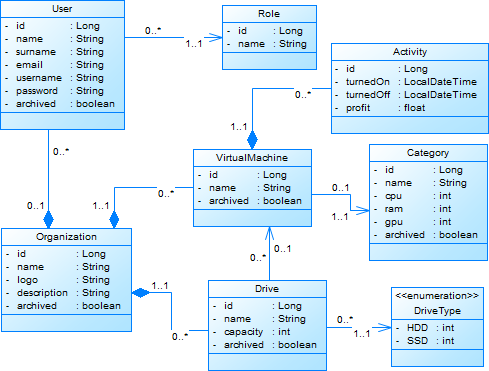
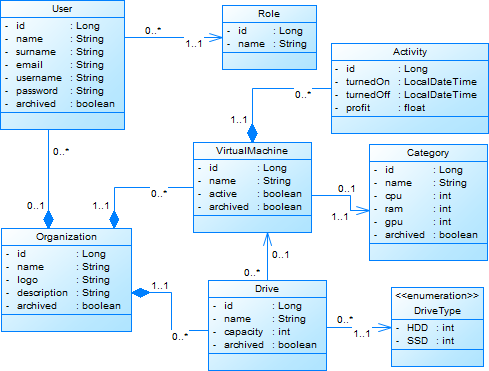
Added active attribute to virtual machine

Changed region(s): [[0.3988, 0.2965, 0.6442, 0.7412], [0.6442, 0.4744, 0.7362, 0.5337], [0.3067, 0.504, 0.3681, 0.5337]]

diff --git a/cloud-api/cloud/src/main/java/com/demo/cloud/model/VirtualMachine.java b/cloud-api/cloud/src/main/java/com/demo/cloud/model/VirtualMachine.java
@@ -24,6 +24,9 @@ public class VirtualMachine {
     private String name;
 
     @Column(nullable = false)
+    private boolean active;
+
+    @Column(nullable = false)
     private boolean archived;
 
     @ManyToOne
@@ -34,13 +37,14 @@ public class VirtualMachine {
 
     public VirtualMachine() { }
 
-    public VirtualMachine(String name, Organization organization, Category category, boolean archived) {
-        this(null, name, archived, organization, category);
+    public VirtualMachine(String name, boolean active, boolean archived, Organization organization, Category category) {
+        this(null, name, active, archived, organization, category);
     }
 
-    public VirtualMachine(Long id, String name, boolean archived, Organization organization, Category category) {
+    public VirtualMachine(Long id, String name, boolean active, boolean archived, Organization organization, Category category) {
         this.id = id;
         this.name = Strings.requireNonBlank(name, "Name must not be blank.");
+        this.active = active;
         this.archived = archived;
         this.organization = Objects.requireNonNull(organization, "Organization must not be null.");
         this.category = Objects.requireNonNull(category, "Category must not be null.");
@@ -58,24 +62,16 @@ public class VirtualMachine {
         return Objects.hash(id, name);
     }
 
-    public int getCpu() {
-        return category.getCpu();
-    }
-
-    public int getRam() {
-        return category.getRam();
-    }
-
-    public int getGpu() {
-        return category.getGpu();
-    }
-
     public Long getId() {
         return id;
     }
 
     public String getName() {
         return name;
+    }
+
+    public boolean isActive() {
+        return active;
     }
 
     public boolean isArchived() {
@@ -88,5 +84,17 @@ public class VirtualMachine {
 
     public Category getCategory() {
         return category;
+    }
+
+    public int getCpu() {
+        return category.getCpu();
+    }
+
+    public int getRam() {
+        return category.getRam();
+    }
+
+    public int getGpu() {
+        return category.getGpu();
     }
 }

diff --git a/cloud-api/cloud/src/main/java/com/demo/cloud/service/impl/VirtualMachineServiceImpl.java b/cloud-api/cloud/src/main/java/com/demo/cloud/service/impl/VirtualMachineServiceImpl.java
@@ -59,9 +59,10 @@ public class VirtualMachineServiceImpl implements VirtualMachineService {
 
         VirtualMachine toAdd = new VirtualMachine(
                 name,
+                false,
+                false,
                 org,
-                cat,
-                false
+                cat
         );
         return repository.save(toAdd);
     }
@@ -95,6 +96,9 @@ public class VirtualMachineServiceImpl implements VirtualMachineService {
     @Override
     public VirtualMachine update(Long id, String name, Long categoryId) {
         VirtualMachine existing = getById(id);
+
+        // TODO: Prevent update if machine is active
+
         if (!existing.getName().equals(name)) {
             validateName(name);
         }
@@ -103,6 +107,7 @@ public class VirtualMachineServiceImpl implements VirtualMachineService {
         VirtualMachine updated = new VirtualMachine(
                 existing.getId(),
                 name,
+                existing.isActive(),
                 false,
                 existing.getOrganization(),
                 cat

diff --git a/cloud-api/cloud/src/main/java/com/demo/cloud/mapper/VirtualMachineMapper.java b/cloud-api/cloud/src/main/java/com/demo/cloud/mapper/VirtualMachineMapper.java
@@ -1,6 +1,6 @@
 package com.demo.cloud.mapper;
 
-import com.demo.cloud.dto.machines.MachineViewDto;
+import com.demo.cloud.dto.machine.MachineViewDto;
 import com.demo.cloud.model.VirtualMachine;
 import org.springframework.stereotype.Component;
 
@@ -11,6 +11,7 @@ public class VirtualMachineMapper extends PageMapper<VirtualMachine, MachineView
         return new MachineViewDto(
                 machine.getId(),
                 machine.getName(),
+                machine.isActive(),
                 machine.getOrganization().getName(),
                 machine.getCategory().getName(),
                 machine.getCategory().getCpu(),

diff --git a/cloud-api/cloud/src/main/java/com/demo/cloud/controller/VirtualMachineController.java b/cloud-api/cloud/src/main/java/com/demo/cloud/controller/VirtualMachineController.java
@@ -2,9 +2,9 @@ package com.demo.cloud.controller;
 
 
 import com.demo.cloud.core.PaginatedResponse;
-import com.demo.cloud.dto.machines.AddMachineDto;
-import com.demo.cloud.dto.machines.MachineViewDto;
-import com.demo.cloud.dto.organization.UpdateMachineDto;
+import com.demo.cloud.dto.machine.AddMachineDto;
+import com.demo.cloud.dto.machine.MachineViewDto;
+import com.demo.cloud.dto.machine.UpdateMachineDto;
 import com.demo.cloud.filterParams.MachineFilter;
 import com.demo.cloud.mapper.VirtualMachineMapper;
 import com.demo.cloud.model.VirtualMachine;

diff --git a/cloud-api/cloud/src/main/java/com/demo/cloud/dto/machine/MachineViewDto.java b/cloud-api/cloud/src/main/java/com/demo/cloud/dto/machine/MachineViewDto.java
@@ -1,8 +1,9 @@
-package com.demo.cloud.dto.machines;
+package com.demo.cloud.dto.machine;
 
 public record MachineViewDto(
         Long id,
         String name,
+        boolean active,
 //        Long organizationId,
         String organization,
 //        Long categoryId,

diff --git a/cloud-api/cloud/src/main/java/com/demo/cloud/dto/machine/UpdateMachineDto.java b/cloud-api/cloud/src/main/java/com/demo/cloud/dto/machine/UpdateMachineDto.java
@@ -1,6 +1,4 @@
-package com.demo.cloud.dto.organization;
-
-import com.demo.cloud.dto.machines.RequestMachineDto;
+package com.demo.cloud.dto.machine;
 
 public class UpdateMachineDto extends RequestMachineDto {
     public UpdateMachineDto(String name, Long categoryId) {

diff --git a/cloud-api/cloud/src/main/java/com/demo/cloud/dto/machine/RequestMachineDto.java b/cloud-api/cloud/src/main/java/com/demo/cloud/dto/machine/RequestMachineDto.java
@@ -1,4 +1,4 @@
-package com.demo.cloud.dto.machines;
+package com.demo.cloud.dto.machine;
 
 import jakarta.validation.constraints.NotBlank;
 import jakarta.validation.constraints.NotNull;

diff --git a/cloud-api/cloud/src/main/java/com/demo/cloud/dto/machine/AddMachineDto.java b/cloud-api/cloud/src/main/java/com/demo/cloud/dto/machine/AddMachineDto.java
@@ -1,4 +1,4 @@
-package com.demo.cloud.dto.machines;
+package com.demo.cloud.dto.machine;
 
 import jakarta.validation.constraints.Positive;
 
